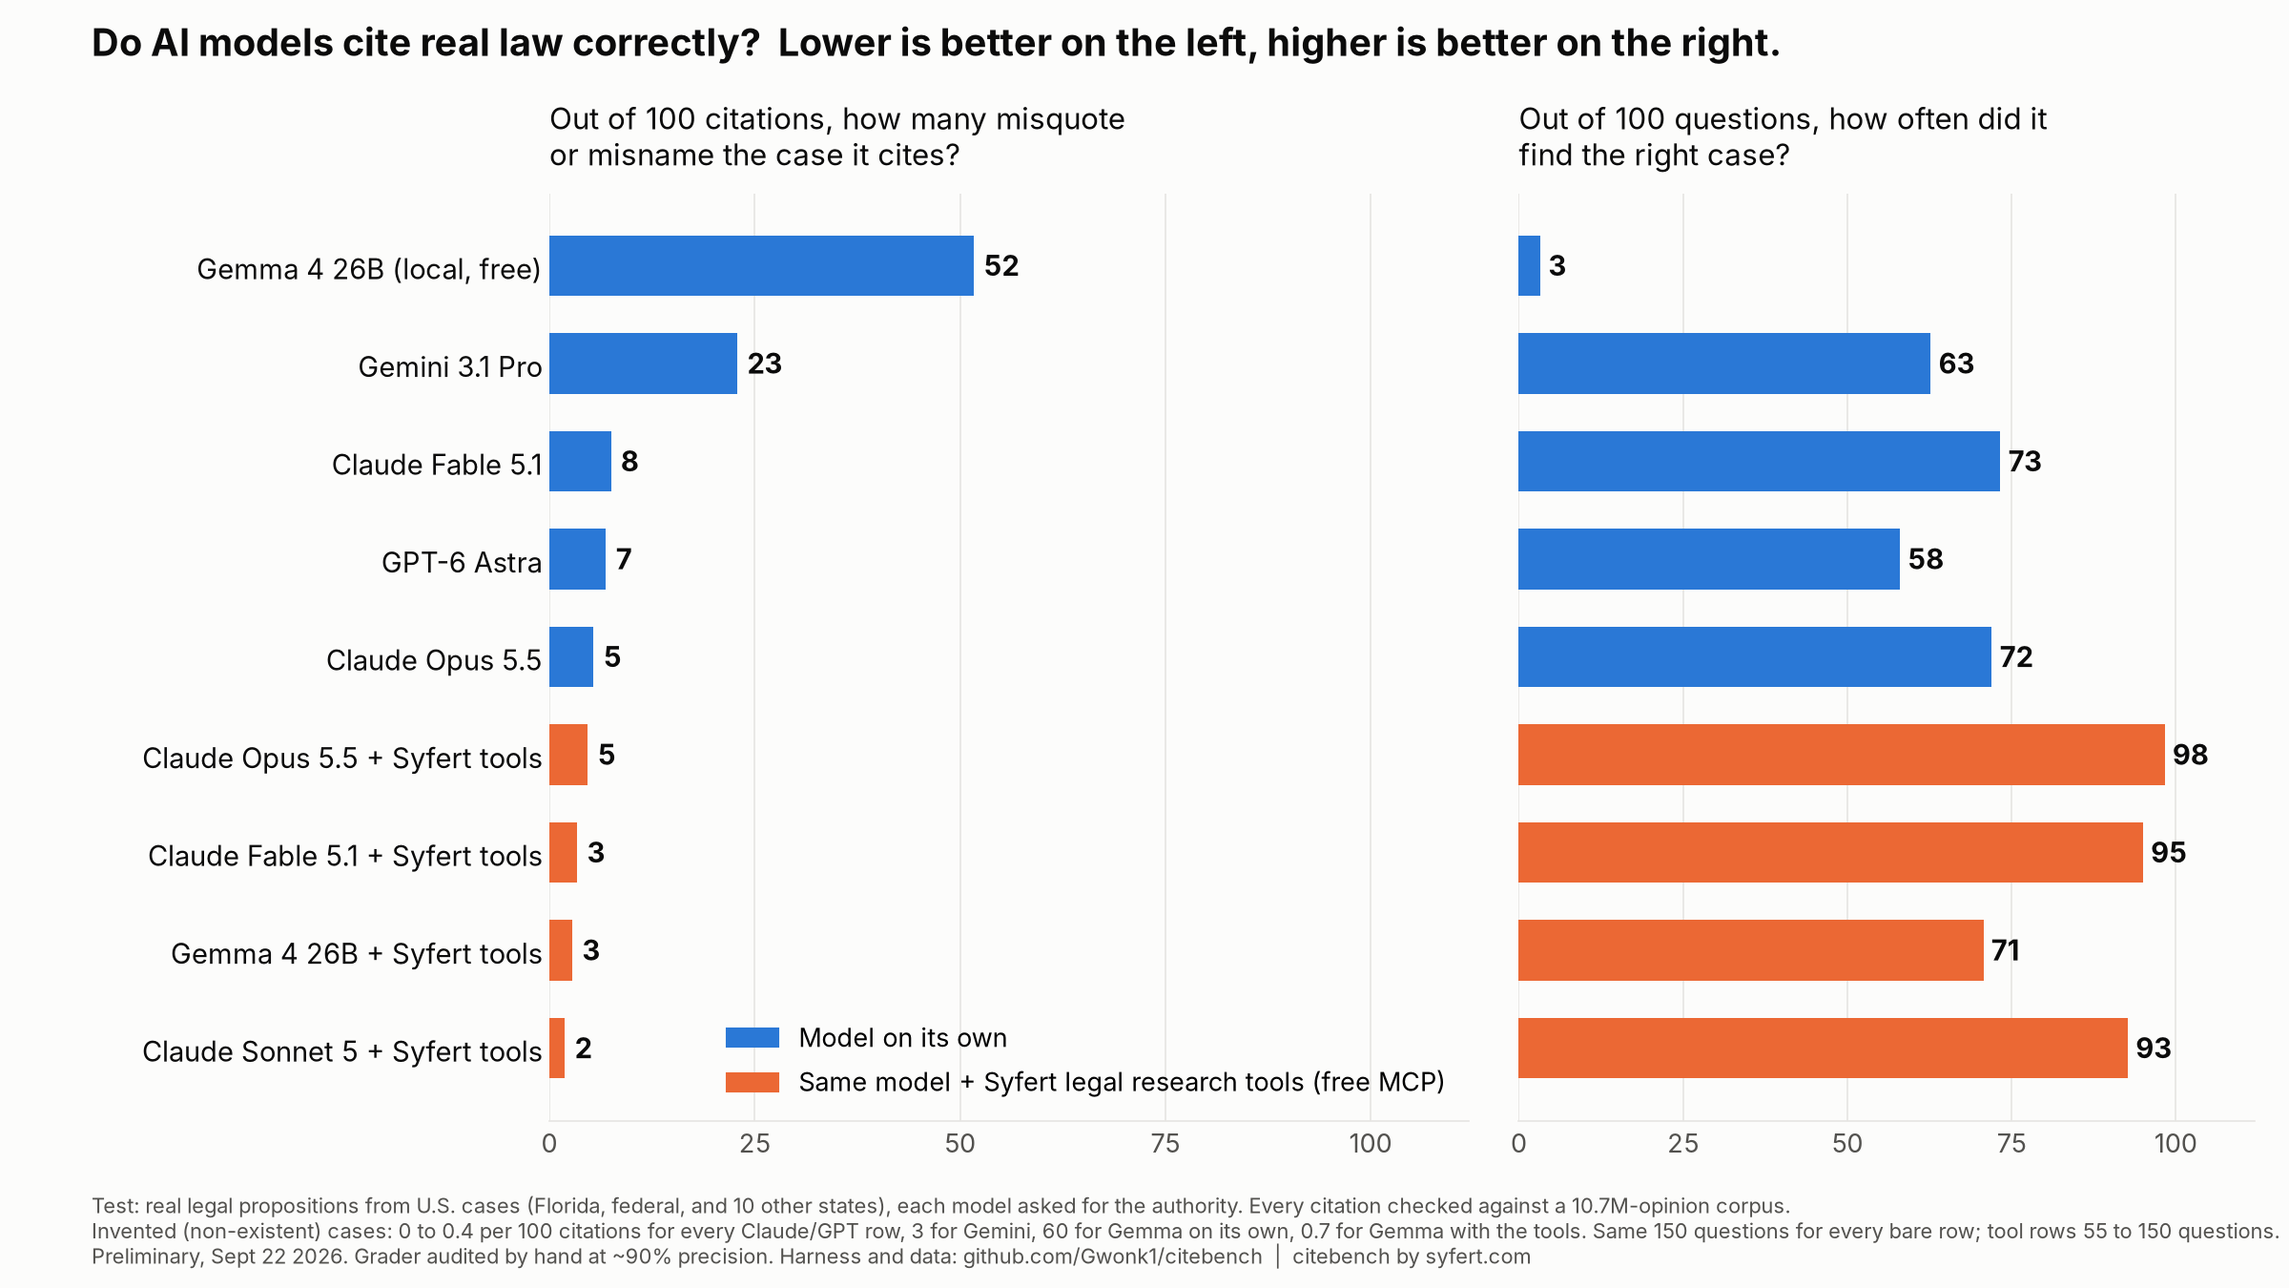
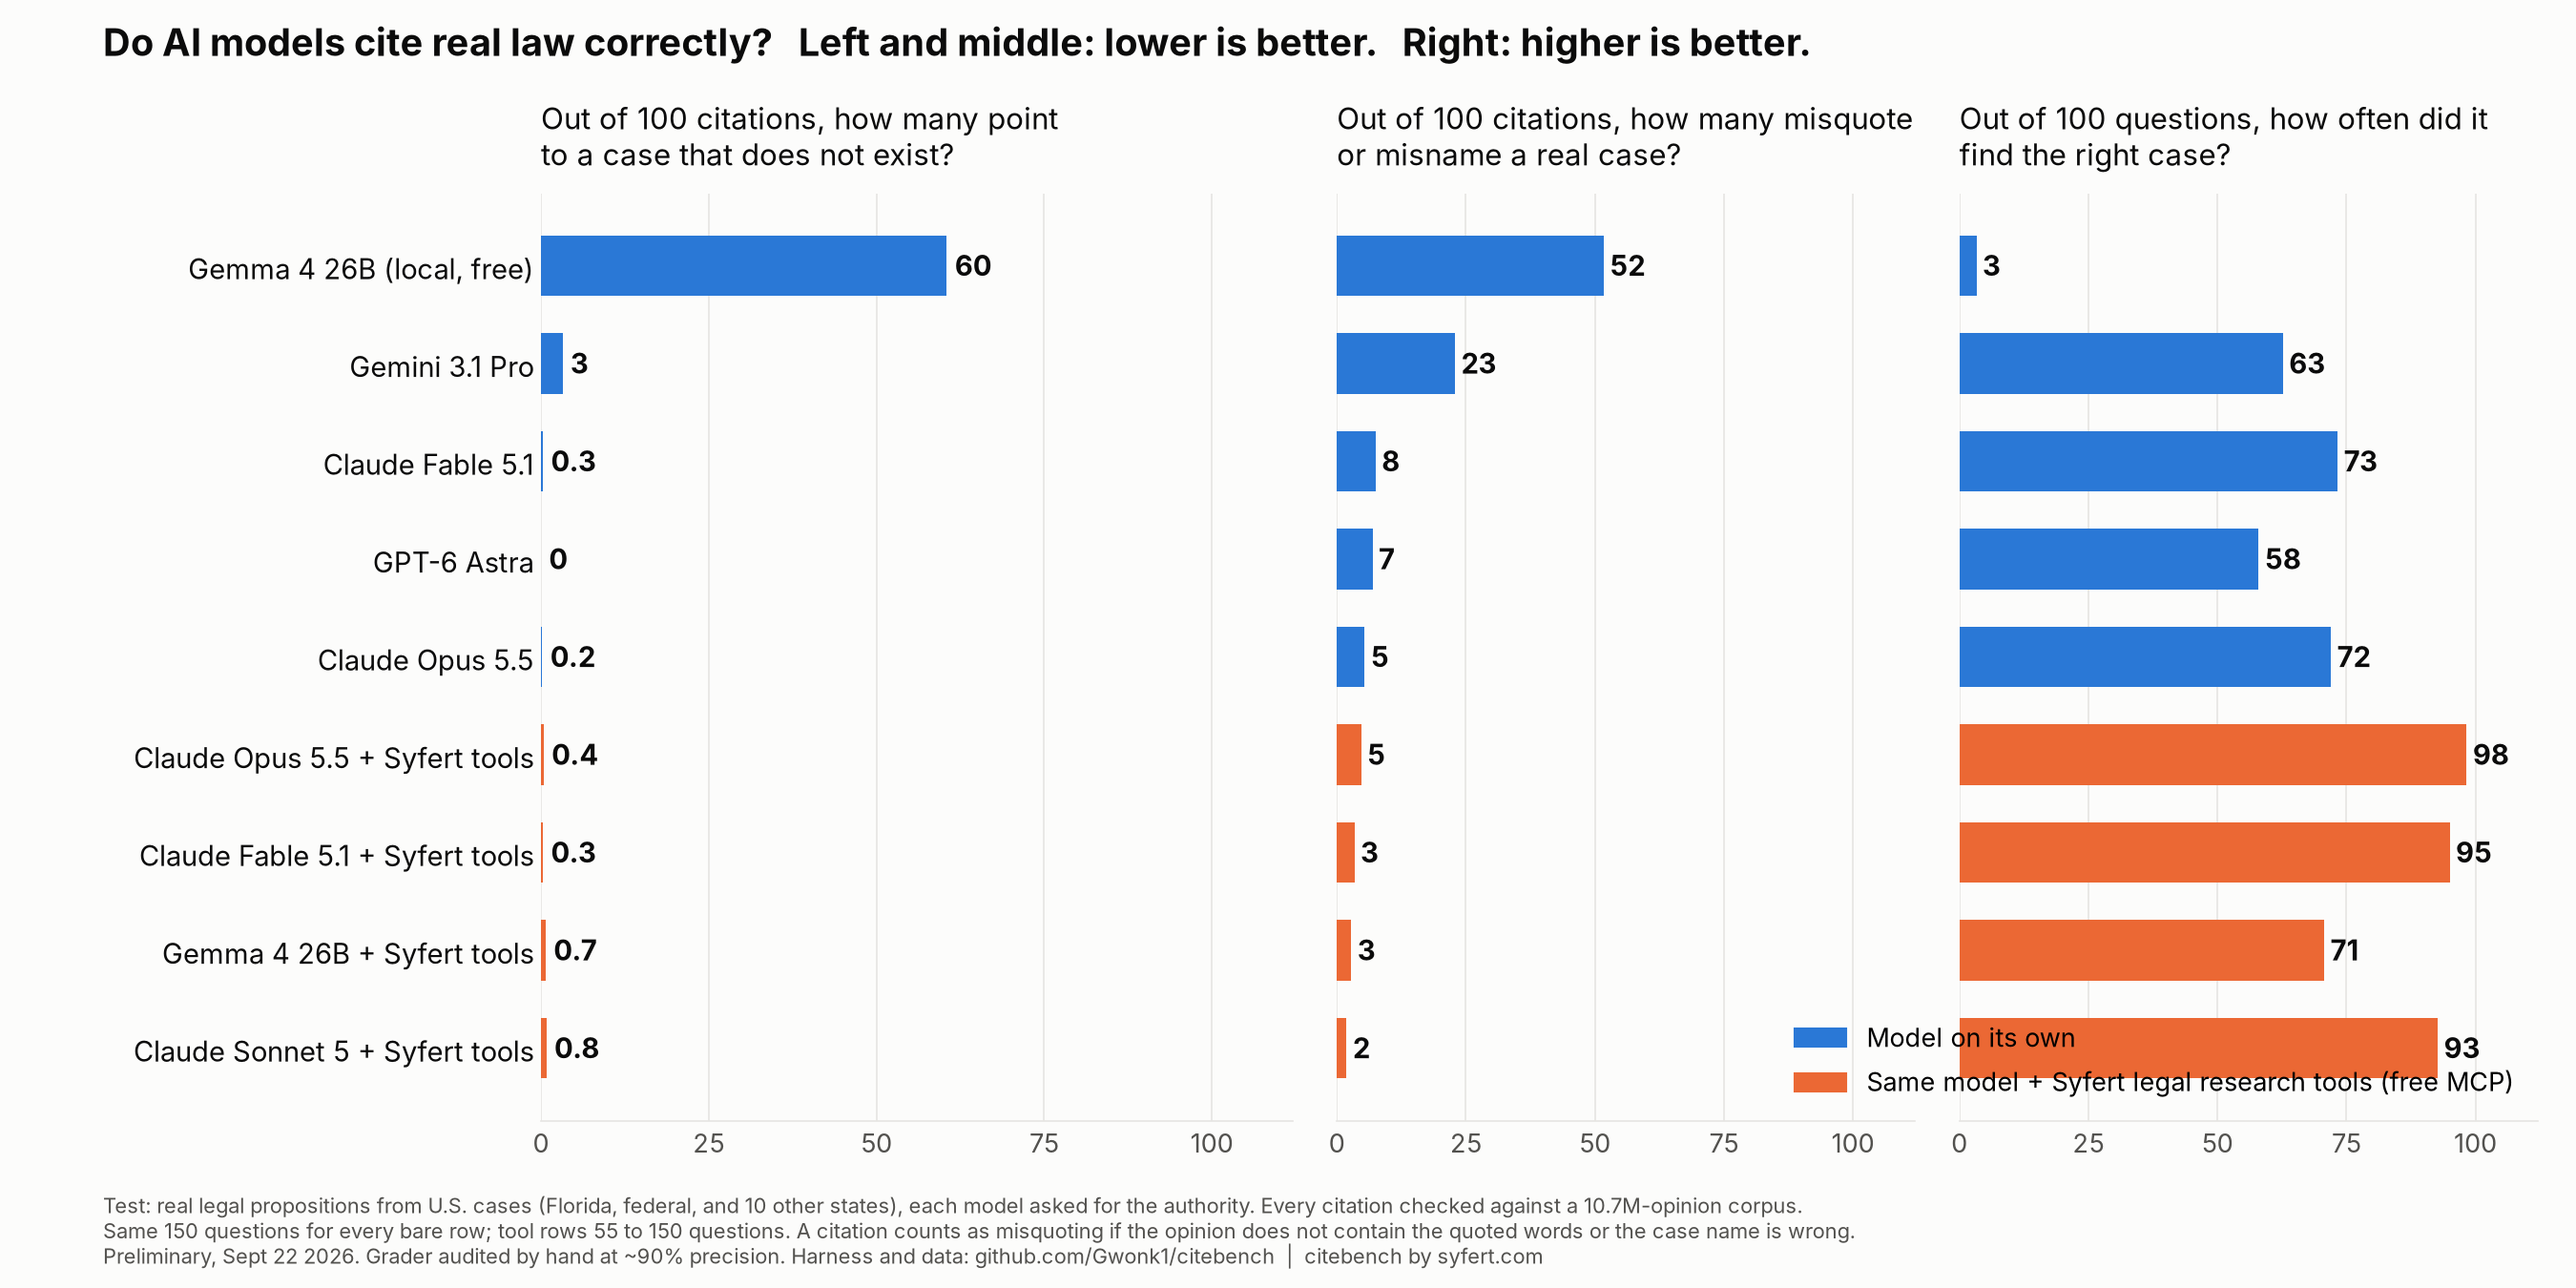
charts: headline table as an image; three-panel simple chart
Claude-Session: https://claude.ai/code/session_01Nzq7AZufucoiZGhzbSCgLB

diff --git a/publish/charts/make_reddit_table.py b/publish/charts/make_reddit_table.py
@@ -1,0 +1,60 @@
+#!/usr/bin/env python3
+# usage: cd ~/projects/citebench && uv run --no-project --with matplotlib python publish/charts/make_reddit_table.py   (the headline table as one image for Reddit/X)
+import os
+import matplotlib; matplotlib.use("Agg")
+import matplotlib.pyplot as plt
+
+ROOT = os.path.dirname(os.path.dirname(os.path.dirname(os.path.abspath(__file__))))
+rows = {}
+for l in open(os.path.join(ROOT, "results", "report_150.md")):
+    if l.startswith("| ") and ":v" in l and " pp" not in l:
+        c = [x.strip() for x in l.strip().strip("|").split("|")]
+        p = lambda s: float(s.rstrip("%"))
+        rows[(c[0], c[1])] = dict(n=int(c[3]), cites=int(c[6]), fab=p(c[7]), misgr=p(c[11]), gold=p(c[14]))
+
+GROUPS = [
+  ("Model on its own", [
+    ("gpt-6-astra", "bare", "GPT-6 Astra"),
+    ("claude-opus-5-5", "bare", "Claude Opus 5.5"),
+    ("claude-fable-5-1", "bare", "Claude Fable 5.1"),
+    ("gemini-3.1-pro-or", "bare", "Gemini 3.1 Pro"),
+    ("local-gemma", "bare", "Gemma 4 26B (local, free)"),
+  ]),
+  ("Same model + Syfert legal research tools (free MCP)", [
+    ("local-gemma", "mcp", "Gemma 4 26B + Syfert"),
+    ("claude-sonnet-5-or", "mcp", "Claude Sonnet 5 + Syfert"),
+    ("claude-fable-5-1-cc", "mcp", "Claude Fable 5.1 + Syfert"),
+    ("claude-opus-5-5-cc", "mcp", "Claude Opus 5.5 + Syfert"),
+  ]),
+]
+HEAD = ["", "Questions", "Citations\nchecked", "Invented case\n(per 100 cites)", "Misquotes real case\n(per 100 cites)", "Found the\nright case"]
+SURF, INK, INK2, LINE, TINT, TINT2, HDR = "#fcfcfb", "#0b0b0b", "#52514e", "#dddcd8", "#fbe9df", "#f3f2ef", "#0b0b0b"
+plt.rcParams.update({"font.family": ["Inter", "DejaVu Sans"]})
+nrows = sum(len(g[1]) for g in GROUPS) + len(GROUPS)
+H = 3.3 + 0.62 * nrows
+fig = plt.figure(figsize=(16, H), dpi=150, facecolor=SURF); ax = fig.add_axes([0, 0, 1, 1]); ax.set_axis_off()
+ax.set_xlim(0, 100); ax.set_ylim(0, 100)
+fig.text(0.04, 1 - 0.35 / H, "Do AI models cite real law correctly?", fontsize=24, fontweight="bold", color=INK, va="top")
+fig.text(0.04, 1 - 0.85 / H, "150 real legal propositions (Florida, federal, 10 other states); every citation in every answer checked against 10.7M opinions.", fontsize=13, color=INK2, va="top")
+cols = [4, 38, 50, 62, 78, 94]  # x centers/anchors in % of width
+top, rh = 100 * (1 - 1.35 / H), 100 * 0.62 / H
+y = top
+for i, h in enumerate(HEAD):
+    ax.text(cols[i], y, h, ha="left" if i == 0 else "center", va="center", fontsize=13, color=INK2, fontweight="bold")
+y -= rh * 0.9; ax.plot([3, 99], [y, y], color=INK, lw=1.2)
+for gi, (gname, items) in enumerate(GROUPS):
+    y -= rh * 0.85
+    ax.text(cols[0], y, gname, ha="left", va="center", fontsize=13.5, fontweight="bold", color=INK)
+    for k, arm, label in items:
+        y -= rh; r = rows[(k, arm)]
+        if gi == 1: ax.add_patch(plt.Rectangle((3, y - rh / 2), 96, rh, color=TINT, lw=0, zorder=0))
+        vals = [label, f"{r['n']}", f"{r['cites']}", f"{r['fab']:.1f}", f"{r['misgr']:.1f}", f"{r['gold']:.0f}%"]
+        for i, v in enumerate(vals):
+            ax.text(cols[i] + (1.5 if i == 0 else 0), y, v, ha="left" if i == 0 else "center", va="center",
+                    fontsize=15 if i else 14.5, color=INK, fontweight="bold" if i >= 3 else "normal", zorder=2)
+        ax.plot([3, 99], [y - rh / 2, y - rh / 2], color=LINE, lw=0.6, zorder=1)
+fig.text(0.04, 0.25 / H, "Lower is better for 'invented' and 'misquotes'; higher is better for 'found the right case'. Misquote = the opinion does not contain the quoted words, or the case name is wrong.\n"
+         "Syfert rows: Sonnet via API (55 of 60 graded); Fable and Opus via Claude Code with only the Syfert tools attached. The few 'invented' cites in the Claude/GPT rows are real cases at a wrong page.\n"
+         "Preliminary, Sept 22 2026. Grader hand-audited at ~90% precision. Harness, questions and raw results: github.com/Gwonk1/citebench  |  citebench by syfert.com (I run both the tool and the grader).",
+         fontsize=10.5, color=INK2, va="bottom")
+out = os.path.join(ROOT, "publish", "charts", "reddit_table.png"); fig.savefig(out, facecolor=SURF); print("wrote", out)

diff --git a/publish/charts/make_reddit_chart.py b/publish/charts/make_reddit_chart.py
@@ -32,30 +32,30 @@ data.sort(key=lambda d: -d[2])
 
 BLUE, ORANGE, SURF, INK, INK2, GRID = "#2a78d6", "#eb6834", "#fcfcfb", "#0b0b0b", "#52514e", "#e6e5e2"
 plt.rcParams.update({"font.family": ["Inter", "DejaVu Sans"], "font.size": 13})
-fig, (ax1, ax2) = plt.subplots(1, 2, figsize=(16, 9), dpi=150, facecolor=SURF, gridspec_kw={"width_ratios": [1.25, 1], "wspace": 0.06})
+fig, (ax0, ax1, ax2) = plt.subplots(1, 3, figsize=(18, 9), dpi=150, facecolor=SURF, gridspec_kw={"width_ratios": [1.3, 1, 1], "wspace": 0.07})
 labels = [d[0] for d in data]; y = range(len(data))[::-1]
-for ax, idx, title, xmax in ((ax1, 2, "Out of 100 citations, how many misquote\nor misname the case it cites?", 100),
+for ax, idx, title, xmax in ((ax0, 6, "Out of 100 citations, how many point\nto a case that does not exist?", 100),
+                            (ax1, 2, "Out of 100 citations, how many misquote\nor misname a real case?", 100),
                             (ax2, 3, "Out of 100 questions, how often did it\nfind the right case?", 100)):
     ax.set_facecolor(SURF)
     vals = [d[idx] for d in data]; cols = [ORANGE if d[1] else BLUE for d in data]
     bars = ax.barh(list(y), vals, color=cols, height=0.62, zorder=3)
     for b, v in zip(bars, vals):
-        ax.text(b.get_width() + 1.2, b.get_y() + b.get_height() / 2, f"{v:.0f}", va="center", ha="left", color=INK, fontsize=14, fontweight="bold")
-    ax.set_xlim(0, xmax * 1.12); ax.set_yticks(list(y)); ax.set_yticklabels(labels if ax is ax1 else [""] * len(labels), fontsize=14, color=INK)
+        ax.text(b.get_width() + 1.2, b.get_y() + b.get_height() / 2, (f"{v:.1f}" if 0 < v < 1 else f"{v:.0f}"), va="center", ha="left", color=INK, fontsize=14, fontweight="bold")
+    ax.set_xlim(0, xmax * 1.12); ax.set_yticks(list(y)); ax.set_yticklabels(labels if ax is ax0 else [""] * len(labels), fontsize=14, color=INK)
     ax.set_title(title, loc="left", fontsize=15, color=INK, pad=14)
     ax.grid(axis="x", color=GRID, zorder=0); ax.set_axisbelow(True)
     for s in ("top", "right", "left"): ax.spines[s].set_visible(False)
     ax.spines["bottom"].set_color(GRID); ax.tick_params(axis="x", colors=INK2, length=0); ax.tick_params(axis="y", length=0)
     ax.set_xticks([0, 25, 50, 75, 100])
-ax1.legend(handles=[Patch(color=BLUE, label="Model on its own"), Patch(color=ORANGE, label="Same model + Syfert legal research tools (free MCP)")],
+ax2.legend(handles=[Patch(color=BLUE, label="Model on its own"), Patch(color=ORANGE, label="Same model + Syfert legal research tools (free MCP)")],
            loc="lower right", frameon=False, fontsize=13)
-fig.suptitle("Do AI models cite real law correctly?  Lower is better on the left, higher is better on the right.",
+fig.suptitle("Do AI models cite real law correctly?   Left and middle: lower is better.   Right: higher is better.",
              x=0.04, ha="left", fontsize=19, fontweight="bold", color=INK, y=0.985)
 ns = "; ".join(f"{d[0].split(' +')[0]}{' +tools' if d[1] else ''}: {d[4]} questions, {d[5]} citations" for d in data)
 fig.text(0.04, 0.015, "Test: real legal propositions from U.S. cases (Florida, federal, and 10 other states), each model asked for the authority. Every citation checked against a 10.7M-opinion corpus.\n"
-         "Invented (non-existent) cases: 0 to 0.4 per 100 citations for every Claude/GPT row, 3 for Gemini, 60 for Gemma on its own, 0.7 for Gemma with the tools. "
-         "Same 150 questions for every bare row; tool rows 55 to 150 questions.\n"
+         "Same 150 questions for every bare row; tool rows 55 to 150 questions. A citation counts as misquoting if the opinion does not contain the quoted words or the case name is wrong.\n"
          "Preliminary, Sept 22 2026. Grader audited by hand at ~90% precision. Harness and data: github.com/Gwonk1/citebench  |  citebench by syfert.com",
          fontsize=10.5, color=INK2, va="bottom")
-fig.subplots_adjust(left=0.24, right=0.985, top=0.85, bottom=0.13)
+fig.subplots_adjust(left=0.21, right=0.985, top=0.85, bottom=0.13)
 out = os.path.join(ROOT, "publish", "charts", "reddit_simple.png"); fig.savefig(out, facecolor=SURF); print("wrote", out)
